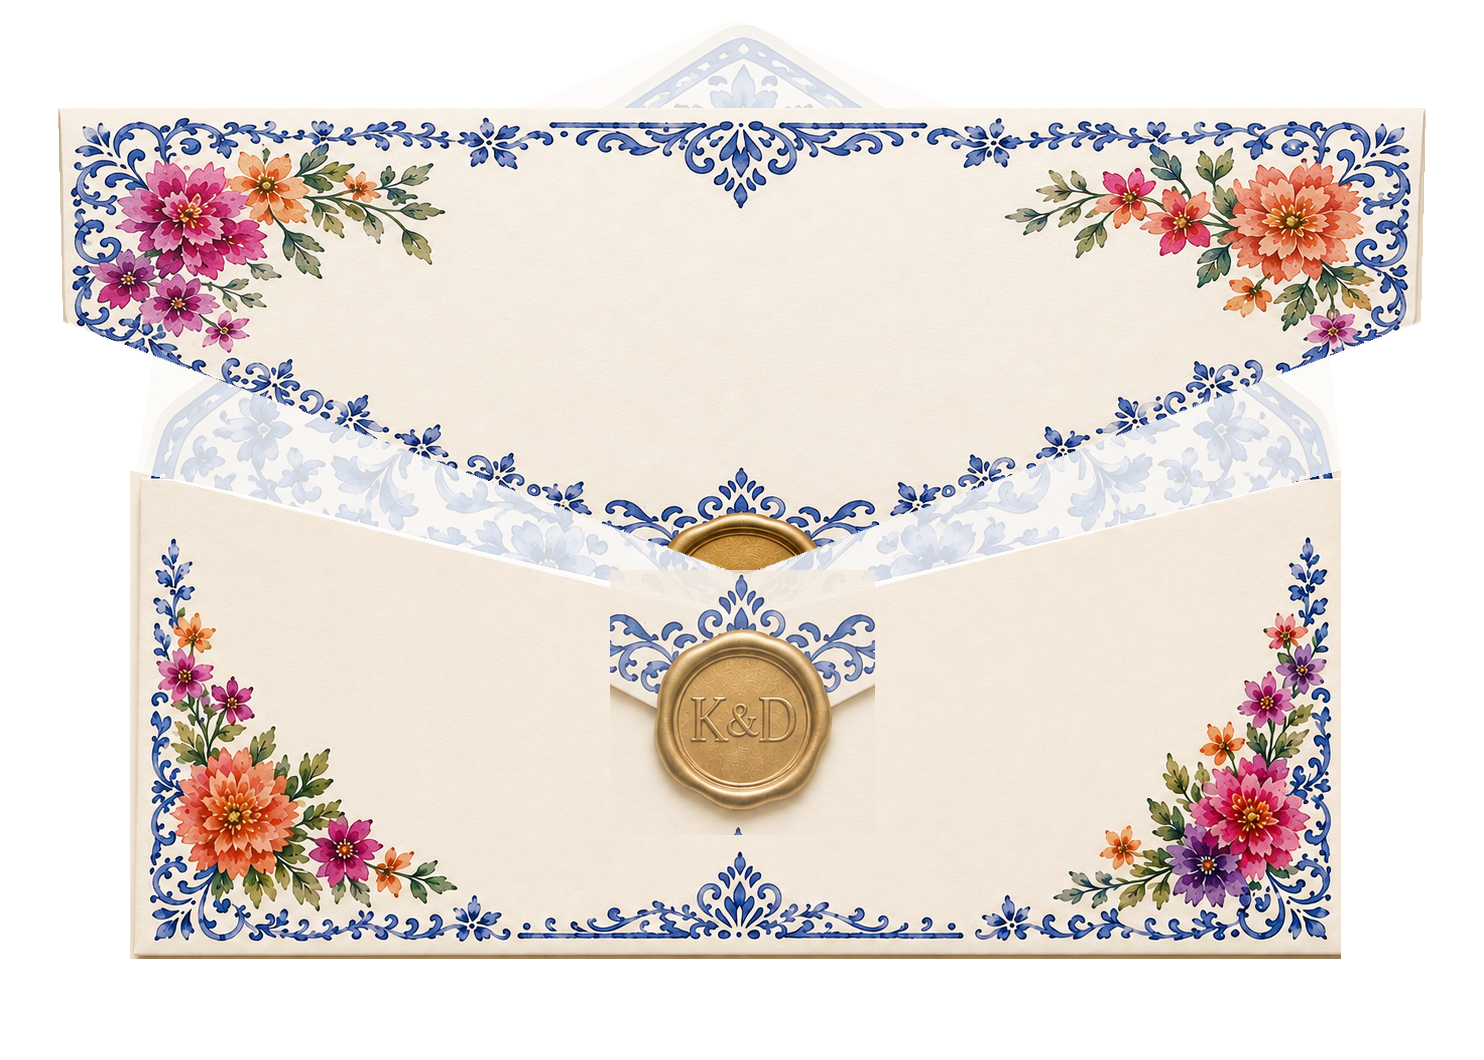
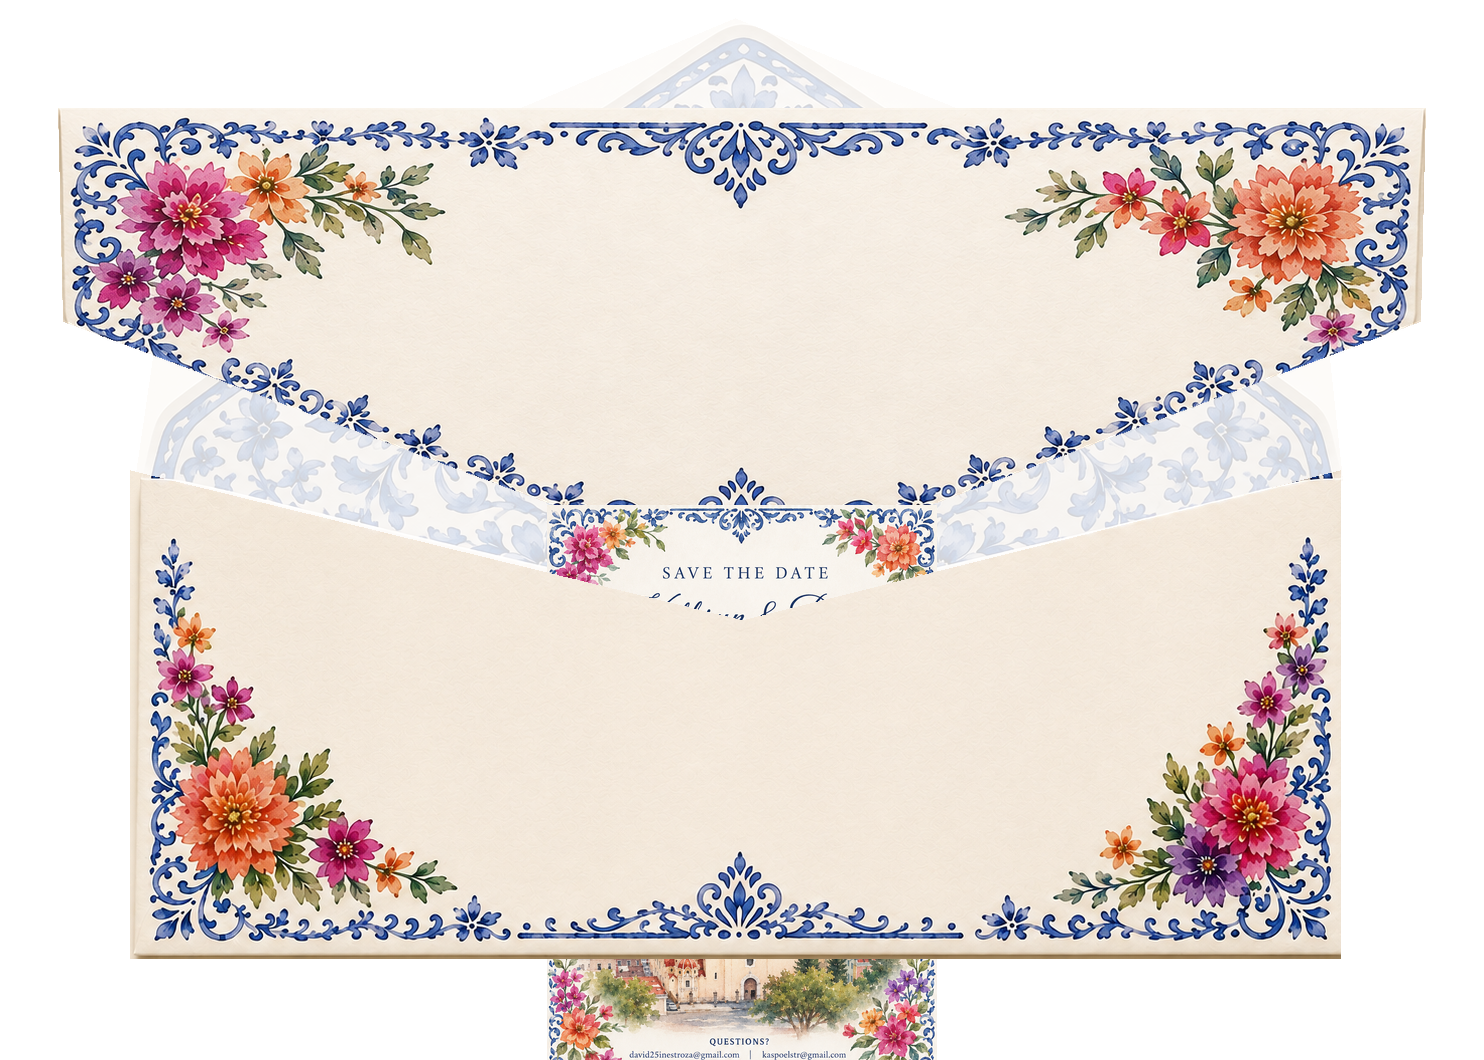
Add files via upload

Changed region(s): [[0.372, 0.467, 0.6509, 0.7783], [0.372, 0.9028, 0.6509, 1.0]]

diff --git a/index.html b/index.html
@@ -11,136 +11,82 @@ html,body{margin:0;min-height:100%;background:var(--cream)}
 body{font-family:Georgia,"Times New Roman",serif;color:var(--navy);overflow-x:hidden}
 .page{min-height:100vh;display:flex;flex-direction:column;align-items:center;padding:10px 10px 40px}
 .stage{position:relative;width:min(1000px,100%);height:clamp(650px,84vw,900px)}
-.scene{
-  position:absolute;left:50%;top:12px;width:min(920px,97vw);aspect-ratio:1484/1060;
-  transform:translateX(-50%);filter:drop-shadow(0 15px 22px rgba(68,45,25,.18))
-}
-.frame{position:absolute;inset:0;width:100%;height:100%;object-fit:contain;opacity:0}
+.scene{position:absolute;left:50%;top:12px;width:min(920px,97vw);aspect-ratio:1484/1060;transform:translateX(-50%);filter:drop-shadow(0 15px 22px rgba(68,45,25,.18));overflow:hidden}
+.frame{position:absolute;inset:0;width:100%;height:100%;object-fit:contain;opacity:0;pointer-events:none}
 .frame.active{opacity:1}
-.card-window{
-  position:absolute;
-  z-index:5;
-  left:50%;
-  top:44%;
-  width:40%;
-  height:46%;
-  transform:translateX(-50%);
-  overflow:hidden;
-  pointer-events:none;
-}
-.card{
-  position:absolute;
-  left:50%;
-  top:100%;
-  width:86%;
-  height:auto;
-  transform:translateX(-50%);
-  filter:drop-shadow(0 12px 18px rgba(40,28,18,.23));
-  opacity:0;
-}
-.scene.card-moving .card{
-  animation:cardRise 1.75s cubic-bezier(.16,.82,.14,1) forwards;
-}
-@keyframes cardRise{
-  0%{top:100%;opacity:0}
-  12%{opacity:1}
-  100%{top:-112%;opacity:1}
-}
-.envelope-fade{animation:fadeEnvelope .50s ease forwards}
-@keyframes fadeEnvelope{to{opacity:0;transform:translateX(-50%) translateY(12px) scale(.985)}}
-
-.clickable{
-  display:none;width:min(600px,96vw);background:#fff;opacity:0;
-  box-shadow:0 16px 30px rgba(68,45,25,.18)
-}
+.live{position:absolute;inset:0;opacity:0;pointer-events:none}
+.live.active{opacity:1}
+.live-layer{position:absolute;inset:0;width:100%;height:100%;object-fit:contain}
+.liner{z-index:1}
+.card-clip{position:absolute;z-index:2;inset:0 0 9.5% 0;overflow:hidden}
+.card{position:absolute;left:50%;top:38.7%;width:26.3%;height:auto;transform:translateX(-50%);filter:drop-shadow(0 12px 18px rgba(40,28,18,.23))}
+.pocket{z-index:3}
+.live.rise .card{animation:cardRise 1.65s cubic-bezier(.16,.82,.14,1) forwards}
+@keyframes cardRise{0%{top:38.7%;width:26.3%}100%{top:-2%;width:42%}}
+.live.fade-envelope .liner,.live.fade-envelope .pocket{animation:envelopeFade .48s ease forwards}
+@keyframes envelopeFade{to{opacity:0;transform:translateY(12px) scale(.985)}}
+.live.fade-card .card{animation:cardFade .18s ease forwards}
+@keyframes cardFade{to{opacity:0}}
+.clickable{display:none;width:min(600px,96vw);background:#fff;opacity:0;box-shadow:0 16px 30px rgba(68,45,25,.18)}
 .clickable.show{display:block;animation:finalIn .35s ease forwards}
 .clickable img{display:block;width:100%;height:auto;border:0}
 .footer-row{display:flex;width:100%}.footer-row>*{display:block}
 @keyframes finalIn{from{opacity:0;transform:translateY(5px)}to{opacity:1;transform:none}}
-.replay{
-  margin-top:20px;padding:10px 18px;border:1px solid rgba(21,58,114,.22);
-  border-radius:999px;background:#fffaf2;color:var(--pink);
-  font:600 16px Georgia,serif;cursor:pointer;box-shadow:0 5px 14px rgba(60,40,22,.08)
-}
-@media(max-width:700px){
-  .stage{height:650px}.scene{width:108vw;top:24px}.card-window{width:42%;top:45%;height:45%}
-}
-@media(prefers-reduced-motion:reduce){
-  .stage{display:none}.clickable{display:block;opacity:1}
-}
+.replay{margin-top:20px;padding:10px 18px;border:1px solid rgba(21,58,114,.22);border-radius:999px;background:#fffaf2;color:var(--pink);font:600 16px Georgia,serif;cursor:pointer;box-shadow:0 5px 14px rgba(60,40,22,.08)}
+@media(max-width:700px){.stage{height:650px}.scene{width:108vw;top:24px}}
+@media(prefers-reduced-motion:reduce){.stage{display:none}.clickable{display:block;opacity:1}}
 </style>
 </head>
 <body>
 <main class="page">
-  <section class="stage" id="stage" aria-label="Animated wedding envelope">
-    <div class="scene" id="scene">
-      <img class="frame active" src="flap-frames/flap-00.png" alt="Closed wedding envelope">
-      <img class="frame" src="flap-frames/flap-01.png" alt="">
-      <img class="frame" src="flap-frames/flap-02.png" alt="">
-      <img class="frame" src="flap-frames/flap-03.png" alt="">
-      <img class="frame" src="flap-frames/flap-04.png" alt="">
-      <img class="frame" src="flap-frames/flap-05.png" alt="">
-      <div class="card-window">
-        <img class="card" src="invitation-exact.png" alt="Kathryn and David Save the Date">
-      </div>
-    </div>
-  </section>
-
-  <section class="clickable" id="clickableInvitation" aria-label="Interactive save the date">
-    <img src="01_top.jpg" alt="Kathryn and David Save the Date">
-    <a href="https://calendar.google.com/calendar/render?action=TEMPLATE&text=Kathryn%20%26%20David%27s%20Wedding&dates=20270710/20270711&location=Atlixco%2C%20Puebla%2C%20Mexico&details=Formal%20invitation%20with%20ceremony%20details%2C%20accommodations%2C%20transportation%20information%2C%20and%20RSVP%20instructions%20will%20be%20sent%20closer%20to%20the%20wedding."
-      target="_blank" rel="noopener"><img src="02_date.jpg" alt="Add July 10, 2027 to Google Calendar"></a>
-    <img src="03_middle.jpg" alt="Wedding details">
-    <a href="https://www.google.com/maps/search/?api=1&query=Parroquia%20de%20Santa%20Mar%C3%ADa%20de%20la%20Natividad%2C%20Atlixco%2C%20Puebla%2C%20Mexico"
-      target="_blank" rel="noopener"><img src="04_church.jpg" alt="View the church on Google Maps"></a>
-    <img src="05_questions.jpg" alt="Questions">
-    <div class="footer-row">
-      <img src="06a_footer_left.jpg" style="width:20.5%" alt="">
-      <a href="mailto:david25inestroza@gmail.com" style="width:29.333%"><img src="06b_david.jpg" alt="Email David"></a>
-      <img src="06c_footer_mid.jpg" style="width:4.833%" alt="">
-      <a href="mailto:kaspoelstr@gmail.com" style="width:23%"><img src="06d_kathryn.jpg" alt="Email Kathryn"></a>
-      <img src="06e_footer_right.jpg" style="width:22.334%" alt="">
-    </div>
-    <img src="07_bottom.jpg" alt="">
-  </section>
-
-  <button class="replay" id="replay" type="button">↻ Replay envelope animation</button>
+<section class="stage" id="stage" aria-label="Animated wedding envelope">
+<div class="scene">
+<img class="frame active" src="flap-frames/flap-00.png" alt="Closed wedding envelope">
+<img class="frame" src="flap-frames/flap-01.png" alt="">
+<img class="frame" src="flap-frames/flap-02.png" alt="">
+<img class="frame" src="flap-frames/flap-03.png" alt="">
+<img class="frame" src="flap-frames/flap-04.png" alt="">
+<img class="frame" src="flap-frames/flap-05.png" alt="Open envelope with invitation peeking out">
+<div class="live" id="live">
+<img class="live-layer liner" src="envelope-liner.png" alt="">
+<div class="card-clip"><img class="card" src="invitation-exact.png" alt="Kathryn and David Save the Date"></div>
+<img class="live-layer pocket" src="envelope-pocket.png" alt="">
+</div>
+</div>
+</section>
+<section class="clickable" id="clickableInvitation" aria-label="Interactive save the date">
+<img src="01_top.jpg" alt="Kathryn and David Save the Date">
+<a href="https://calendar.google.com/calendar/render?action=TEMPLATE&text=Kathryn%20%26%20David%27s%20Wedding&dates=20270710/20270711&location=Atlixco%2C%20Puebla%2C%20Mexico&details=Formal%20invitation%20with%20ceremony%20details%2C%20accommodations%2C%20transportation%20information%2C%20and%20RSVP%20instructions%20will%20be%20sent%20closer%20to%20the%20wedding." target="_blank" rel="noopener"><img src="02_date.jpg" alt="Add July 10, 2027 to Google Calendar"></a>
+<img src="03_middle.jpg" alt="Wedding details">
+<a href="https://www.google.com/maps/search/?api=1&query=Parroquia%20de%20Santa%20Mar%C3%ADa%20de%20la%20Natividad%2C%20Atlixco%2C%20Puebla%2C%20Mexico" target="_blank" rel="noopener"><img src="04_church.jpg" alt="View the church on Google Maps"></a>
+<img src="05_questions.jpg" alt="Questions">
+<div class="footer-row">
+<img src="06a_footer_left.jpg" style="width:20.5%" alt="">
+<a href="mailto:david25inestroza@gmail.com" style="width:29.333%"><img src="06b_david.jpg" alt="Email David"></a>
+<img src="06c_footer_mid.jpg" style="width:4.833%" alt="">
+<a href="mailto:kaspoelstr@gmail.com" style="width:23%"><img src="06d_kathryn.jpg" alt="Email Kathryn"></a>
+<img src="06e_footer_right.jpg" style="width:22.334%" alt="">
+</div>
+<img src="07_bottom.jpg" alt="">
+</section>
+<button class="replay" id="replay" type="button">↻ Replay envelope animation</button>
 </main>
-
 <script>
-const stage=document.getElementById('stage');
-const scene=document.getElementById('scene');
-const frames=[...document.querySelectorAll('.frame')];
-const finalInvite=document.getElementById('clickableInvitation');
-const replay=document.getElementById('replay');
+const stage=document.getElementById('stage'),frames=[...document.querySelectorAll('.frame')],live=document.getElementById('live'),finalInvite=document.getElementById('clickableInvitation'),replay=document.getElementById('replay');
 let timers=[];
-
 function clearTimers(){timers.forEach(clearTimeout);timers=[]}
 function setFrame(i){frames.forEach((f,n)=>f.classList.toggle('active',n===i))}
-function showFinal(){
-  stage.style.display='none';
-  finalInvite.style.display='';
-  finalInvite.classList.add('show');
-  window.scrollTo({top:0,behavior:'smooth'});
-}
+function showFinal(){stage.style.display='none';finalInvite.style.display='';finalInvite.classList.add('show');window.scrollTo({top:0,behavior:'smooth'})}
 function start(){
-  clearTimers();
-  finalInvite.classList.remove('show');
-  finalInvite.style.display='none';
-  stage.style.display='block';
-  scene.classList.remove('card-moving','envelope-fade');
-  setFrame(0);
-
-  // Six visible flap-opening frames, 140ms apart.
-  for(let i=1;i<frames.length;i++){
-    timers.push(setTimeout(()=>setFrame(i), 420+i*140));
-  }
-  timers.push(setTimeout(()=>scene.classList.add('card-moving'), 1280));
-  timers.push(setTimeout(()=>scene.classList.add('envelope-fade'), 3050));
-  timers.push(setTimeout(showFinal, 3650));
+clearTimers();finalInvite.classList.remove('show');finalInvite.style.display='none';stage.style.display='block';live.className='live';setFrame(0);
+for(let i=1;i<frames.length;i++)timers.push(setTimeout(()=>setFrame(i),420+i*175));
+timers.push(setTimeout(()=>{frames.forEach(f=>f.classList.remove('active'));live.classList.add('active')},1510));
+timers.push(setTimeout(()=>live.classList.add('rise'),1650));
+timers.push(setTimeout(()=>live.classList.add('fade-envelope'),3250));
+timers.push(setTimeout(()=>live.classList.add('fade-card'),3650));
+timers.push(setTimeout(showFinal,3830));
 }
-replay.addEventListener('click',start);
-start();
+replay.addEventListener('click',start);start();
 </script>
 </body>
 </html>
